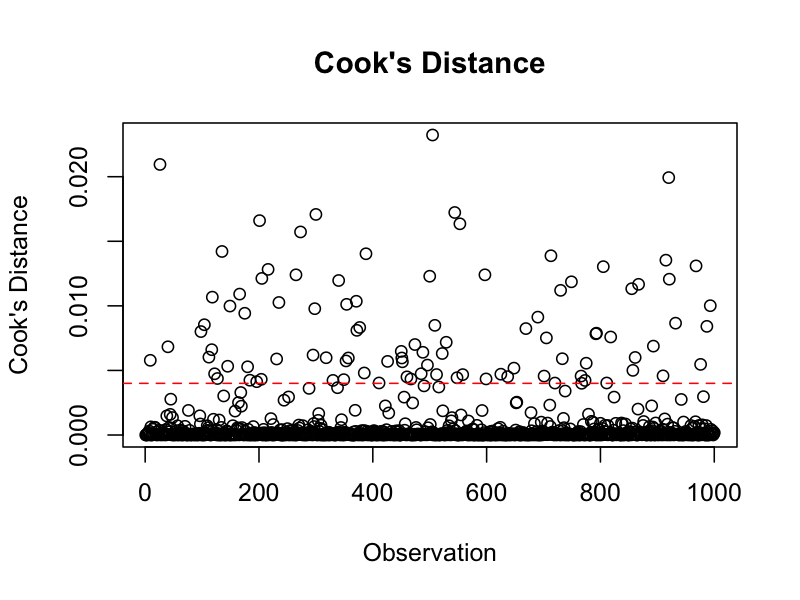
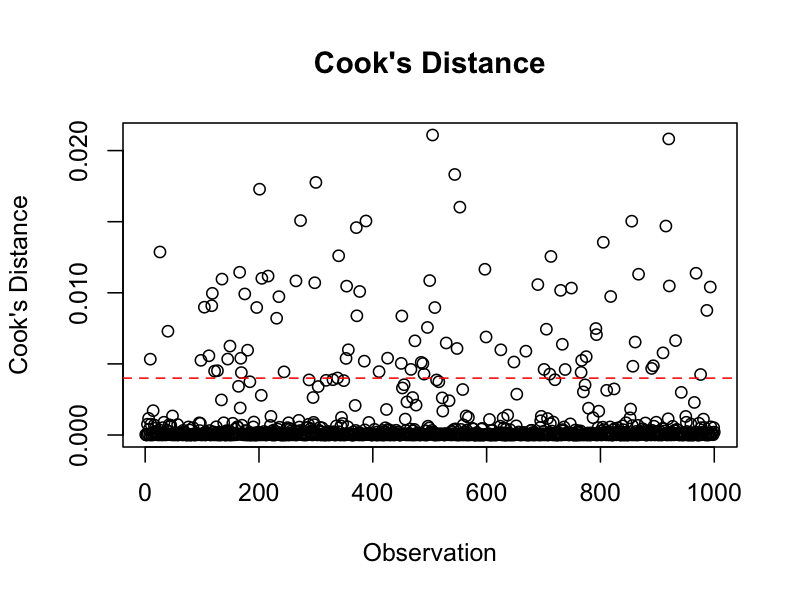
Update project

diff --git a/project/results.md b/project/results.md
@@ -9,7 +9,7 @@
 
 ### Statistical analyses
 
-Analiza statistică a fost realizată utilizând limbajul R (versiunea 4.5.2). Variabilele cantitative au fost testate pentru normalitate și, fiind non-normal distribuite, au fost prezentate ca mediană și interval intercuartilic (IQR). Variabilele categoriale au fost prezentate ca frecvențe absolute și relative (%). Comparațiile între grupuri au fost efectuate utilizând testul Mann-Whitney U (Wilcoxon rank-sum) pentru variabilele cantitative și testul Chi-pătrat pentru variabilele categoriale. Capacitatea discriminativă a variabilelor a fost evaluată prin analiza curbelor ROC (Receiver Operating Characteristic), cu determinarea AUC (Area Under the Curve) și a intervalelor de încredere de 95%. Punctul optim de clasificare (cut-off) a fost determinat prin metoda Youden. Regresiile logistice univariate au fost utilizate pentru estimarea odds ratio (OR) neajustat. Modelul de regresie logistică multivariată a fost construit cu variabila de interes LDL (dichotomizată la mediană) și ajustat pentru variabile selectate pe baza relevanței clinice, respectând limita de grade de libertate disponibile (min(110, 890)/10 ≈ 11). Condițiile de aplicare au fost verificate prin testul Hosmer-Lemeshow (goodness-of-fit), VIF (multicolinearitate), testul Box-Tidwell (liniaritate în logit) și distanța Cook (observații influente). Pragul de semnificație statistică a fost stabilit la p < 0.05.
+Analiza statistică a fost realizată utilizând limbajul R (versiunea 4.5.2). Variabilele cantitative au fost testate pentru normalitate și, fiind non-normal distribuite, au fost prezentate ca mediană și interval intercuartilic (IQR). Variabilele categoriale au fost prezentate ca frecvențe absolute și relative (%). Comparațiile între grupuri au fost efectuate utilizând testul Mann-Whitney U (Wilcoxon rank-sum) pentru variabilele cantitative și testul Chi-pătrat pentru variabilele categoriale. Capacitatea discriminativă a variabilelor a fost evaluată prin analiza curbelor ROC (Receiver Operating Characteristic), cu determinarea AUC (Area Under the Curve) și a intervalelor de încredere de 95%. Punctul optim de clasificare (cut-off) a fost determinat prin metoda Youden. Regresiile logistice univariate au fost utilizate pentru estimarea odds ratio (OR) neajustat. Modelul de regresie logistică multivariată a fost construit cu variabila de interes LDL (dichotomizată la mediană) și ajustat pentru variabile selectate pe baza relevanței clinice (vârstă, istoric familial de boală cardiacă, hipertensiune, diabet, obezitate, tensiune arterială sistolică, HDL, trigliceride), respectând limita de grade de libertate disponibile (min(110, 890)/10 ≈ 11). Condițiile de aplicare au fost verificate prin testul Hosmer-Lemeshow (goodness-of-fit), VIF (multicolinearitate), testul Box-Tidwell (liniaritate în logit) și distanța Cook (observații influente). Pragul de semnificație statistică a fost stabilit la p < 0.05.
 
 ---
 
@@ -22,7 +22,7 @@ IQR, interquartile range
 | Heart disease                     | With (n=110)          | Without (n=890)       | P      |
 |-----------------------------------|-----------------------|-----------------------|--------|
 | Age (years), median (IQR)         | 52.0 (37.0 - 75.8)    | 53.0 (39.0 - 74.0)    | 0.959  |
-| Smoking, n (%)                    | 52 (47.3%)            | 255 (28.7%)           | <0.001 |
+| Family History, n (%)             | 43 (39.1%)            | 204 (22.9%)           | <0.001 |
 | **Comorbidities, n (%)**          |                       |                       |        |
 | &emsp;hypertension                | 50 (45.5%)            | 337 (37.9%)           | 0.15   |
 | &emsp;diabetes                    | 24 (21.8%)            | 161 (18.1%)           | 0.412  |
@@ -31,7 +31,7 @@ IQR, interquartile range
 | &emsp;LDL cholesterol (mg/dL)     | 154.2 (134.2 - 171.3) | 127.6 (112.9 - 145.1) | <0.001 |
 | &emsp;Ferritin (ng/mL)            | 95.0 (70.0 - 138.2)   | 101.0 (71.0 - 142.8)  | 0.592  |
 
-**Interpretare:** Pacienții cu boală cardiacă au prezentat un nivel semnificativ mai ridicat de colesterol LDL comparativ cu cei fără boală cardiacă (mediană 154.2 vs. 127.6 mg/dL, p < 0.001). De asemenea, fumatul a fost semnificativ mai frecvent în grupul cu boală cardiacă (47.3% vs. 28.7%, p < 0.001). Nu s-au observat diferențe semnificative statistic pentru vârstă (p = 0.959), feritină (p = 0.592), hipertensiune (p = 0.15), diabet (p = 0.412) sau obezitate (p = 0.109).
+**Interpretare:** Pacienții cu boală cardiacă au prezentat un nivel semnificativ mai ridicat de colesterol LDL comparativ cu cei fără boală cardiacă (mediană 154.2 vs. 127.6 mg/dL, p < 0.001). De asemenea, istoricul familial de boală cardiacă a fost semnificativ mai frecvent în grupul cu boală cardiacă (39.1% vs. 22.9%, p < 0.001). Nu s-au observat diferențe semnificative statistic pentru vârstă (p = 0.959), feritină (p = 0.592), hipertensiune (p = 0.15), diabet (p = 0.412) sau obezitate (p = 0.109).
 
 ---
 
@@ -95,7 +95,7 @@ OR, odds ratio; CI, confidence interval
 | **Model 2 - PLR**                    |               |                 |        |
 | &emsp;LDL (as quantitative variable) | 1.035         | (1.027 - 1.043) | <0.001 |
 
-**Interpretare:** În analiza univariată, variabilele semnificativ asociate cu boala cardiacă au fost: fumatul (OR = 2.23, p < 0.001), colesterolul LDL (OR = 1.035 per mg/dL, p < 0.001), istoricul familial (OR = 2.16, p < 0.001), stresul crescut (OR = 1.67, p = 0.012), HDL (OR = 1.03, p < 0.001). LDL dichotomizat la mediană (≥ 129.2 mg/dL) a fost puternic asociat cu boala cardiacă (OR = 4.92, p < 0.001), indicând că pacienții cu LDL peste mediană au de aproape 5 ori mai mari șansele de a avea boală cardiacă. Feritina nu a fost asociată semnificativ cu boala cardiacă (OR = 1.000, p = 0.991).
+**Interpretare:** În analiza univariată, variabilele semnificativ asociate cu boala cardiacă au fost: istoricul familial de boală cardiacă (OR = 2.16, p < 0.001), colesterolul LDL (OR = 1.035 per mg/dL, p < 0.001), fumatul (OR = 2.23, p < 0.001), stresul crescut (OR = 1.67, p = 0.012), HDL (OR = 1.03, p < 0.001). LDL dichotomizat la mediană (≥ 129.2 mg/dL) a fost puternic asociat cu boala cardiacă (OR = 4.92, p < 0.001), indicând că pacienții cu LDL peste mediană au de aproape 5 ori mai mari șansele de a avea boală cardiacă. Feritina nu a fost asociată semnificativ cu boala cardiacă (OR = 1.000, p = 0.991).
 
 ---
 
@@ -107,7 +107,7 @@ Modelul de regresie logistică multivariată a fost construit respectând limita
 
 - **LDL >= median** (variabila de interes, dichotomială) - 1 g.d.l.
 - **age** (factor de risc major cardiovascular) - 1 g.d.l.
-- **smoking_status** (factor de risc comportamental) - 1 g.d.l.
+- **family_history** (istoric familial de boală cardiacă) - 1 g.d.l.
 - **hypertension** (comorbiditate majoră CV) - 1 g.d.l.
 - **diabetes** (comorbiditate metabolică) - 1 g.d.l.
 - **obesity** (factor de risc metabolic) - 1 g.d.l.
@@ -116,34 +116,34 @@ Modelul de regresie logistică multivariată a fost construit respectând limita
 - **triglycerides** (marker metabolic) - 1 g.d.l.
 - **Total: 9 g.d.l. (< 11 permise)**
 
-| Variable      | OR adjusted | 95% CI           | p      |
-|---------------|-------------|------------------|--------|
-| LDL >= median | 5.880       | (3.586 - 10.072) | <0.001 |
-| age           | 1.002       | (0.995 - 1.008)  | 0.614  |
-| smoking       | 2.677       | (1.733 - 4.144)  | <0.001 |
-| hypertension  | 1.321       | (0.859 - 2.023)  | 0.202  |
-| diabetes      | 1.352       | (0.790 - 2.249)  | 0.257  |
-| obesity       | 1.389       | (0.882 - 2.162)  | 0.150  |
-| systolic_bp   | 1.004       | (0.994 - 1.013)  | 0.447  |
-| hdl           | 1.029       | (1.012 - 1.046)  | <0.001 |
-| triglycerides | 0.997       | (0.992 - 1.002)  | 0.221  |
+| Variable       | OR adjusted | 95% CI           | p      |
+|----------------|-------------|------------------|--------|
+| LDL >= median  | 5.725       | (3.497 - 9.791)  | <0.001 |
+| age            | 1.003       | (0.996 - 1.009)  | 0.364  |
+| family_history | 2.295       | (1.469 - 3.565)  | <0.001 |
+| hypertension   | 1.321       | (0.861 - 2.020)  | 0.200  |
+| diabetes       | 1.468       | (0.860 - 2.435)  | 0.147  |
+| obesity        | 1.409       | (0.896 - 2.191)  | 0.132  |
+| systolic_bp    | 1.004       | (0.994 - 1.013)  | 0.462  |
+| hdl            | 1.024       | (1.008 - 1.041)  | 0.004  |
+| triglycerides  | 0.997       | (0.992 - 1.001)  | 0.162  |
 
 **Verificarea condițiilor de aplicare:**
 
-1. **Hosmer-Lemeshow test:** Chi-squared = 3.36, df = 8, p = 0.910. Modelul se potrivește bine pe date (p > 0.05).
-2. **Multicolinearitate (VIF):** Toate valorile VIF < 2 (max = 1.64 pentru HDL). Nu există multicolinearitate.
+1. **Hosmer-Lemeshow test:** Chi-squared = 8.89, df = 8, p = 0.352. Modelul se potrivește bine pe date (p > 0.05).
+2. **Multicolinearitate (VIF):** Toate valorile VIF < 2 (max = 1.65 pentru HDL). Nu există multicolinearitate.
 3. **Liniaritate în logit (Box-Tidwell):** Toate variabilele continue respectă condiția de liniaritate (p > 0.05), cu excepția trigliceridelor care prezintă o ușoară non-liniaritate marginală (p = 0.04).
-4. **Observații influente (Cook's Distance):** 99 observații cu Cook's D > 4/n, dar niciuna cu valori extreme care ar necesita excludere.
-5. **Capacitatea discriminativă:** AUC = 0.775 (95% CI: 0.731 - 0.819) - discriminare acceptabilă.
-6. **Pseudo R² Nagelkerke:** 0.199
+4. **Observații influente (Cook's Distance):** 92 observații cu Cook's D > 4/n, dar niciuna cu valori extreme care ar necesita excludere.
+5. **Capacitatea discriminativă:** AUC = 0.764 (95% CI: 0.719 - 0.810) - discriminare acceptabilă.
+6. **Pseudo R² Nagelkerke:** 0.188
 
-**Interpretare Table 4:** În modelul multivariat, LDL ≥ mediană rămâne cel mai puternic predictor independent al bolii cardiace (OR ajustat = 5.88, 95% CI: 3.59 - 10.07, p < 0.001), ceea ce înseamnă că pacienții cu LDL peste mediană au de aproape 6 ori mai mari șansele de a prezenta boală cardiacă, independent de ceilalți factori din model. Fumatul este al doilea predictor semnificativ (OR = 2.68, p < 0.001), iar HDL colesterol este de asemenea semnificativ asociat (OR = 1.03 per mg/dL, p < 0.001). Celelalte variabile (vârsta, hipertensiunea, diabetul, obezitatea, tensiunea sistolică, trigliceridele) nu au atins pragul de semnificație statistică în modelul multivariat.
+**Interpretare Table 4:** În modelul multivariat, LDL ≥ mediană rămâne cel mai puternic predictor independent al bolii cardiace (OR ajustat = 5.73, 95% CI: 3.50 - 9.79, p < 0.001), ceea ce înseamnă că pacienții cu LDL peste mediană au de aproape 6 ori mai mari șansele de a prezenta boală cardiacă, independent de ceilalți factori din model. Istoricul familial de boală cardiacă este al doilea predictor semnificativ (OR = 2.30, 95% CI: 1.47 - 3.57, p < 0.001), iar HDL colesterol este de asemenea semnificativ asociat (OR = 1.02 per mg/dL, p = 0.004). Celelalte variabile (vârsta, hipertensiunea, diabetul, obezitatea, tensiunea sistolică, trigliceridele) nu au atins pragul de semnificație statistică în modelul multivariat.
 
 ---
 
 ## Concluzie
 
-Colesterolul LDL reprezintă un predictor semnificativ și puternic al bolii cardiace, atât în analiza univariată (OR = 4.92 pentru LDL ≥ mediană), cât și în modelul multivariat ajustat (OR = 5.88). Capacitatea sa discriminativă, evaluată prin curba ROC, este acceptabilă (AUC = 0.737), cu un cut-off optim de 138.9 mg/dL. În contrast, feritina nu prezintă nicio asociere semnificativă cu boala cardiacă (AUC = 0.516, OR = 1.00, p = 0.991), demonstrând lipsa capacității discriminative. Modelul multivariat, care include LDL dichotomizat, fumatul și HDL ca predictori semnificativi, prezintă o capacitate discriminativă acceptabilă (AUC = 0.775) și se potrivește bine pe date (Hosmer-Lemeshow p = 0.91), cu absența multicolinearității (VIF < 2) și liniaritate în logit confirmată pentru variabilele continue.
+Colesterolul LDL reprezintă un predictor semnificativ și puternic al bolii cardiace, atât în analiza univariată (OR = 4.92 pentru LDL ≥ mediană), cât și în modelul multivariat ajustat (OR = 5.73). Capacitatea sa discriminativă, evaluată prin curba ROC, este acceptabilă (AUC = 0.737), cu un cut-off optim de 138.9 mg/dL. În contrast, feritina nu prezintă nicio asociere semnificativă cu boala cardiacă (AUC = 0.516, OR = 1.00, p = 0.991), demonstrând lipsa capacității discriminative. Modelul multivariat, care include LDL dichotomizat, istoricul familial de boală cardiacă și HDL ca predictori semnificativi, prezintă o capacitate discriminativă acceptabilă (AUC = 0.764) și se potrivește bine pe date (Hosmer-Lemeshow p = 0.352), cu absența multicolinearității (VIF < 2) și liniaritate în logit confirmată pentru variabilele continue.
 
 ---
 
@@ -208,8 +208,8 @@ n_pct <- function(x, level = "1") {
 # Age
 wilcox.test(age ~ heart_disease, data = data)
 
-# Smoking
-chisq.test(table(data$heart_disease, data$smoking_status))
+# Family History
+chisq.test(table(data$heart_disease, data$family_history))
 
 # Comorbidities
 chisq.test(table(data$heart_disease, data$hypertension))
@@ -285,7 +285,7 @@ tidy(model2, conf.int = TRUE, exponentiate = TRUE)
 # TABLE 4: Multivariate Logistic Regression
 # =============================================================================
 
-multi_model <- glm(heart_disease ~ ldl_high + age + smoking_status +
+multi_model <- glm(heart_disease ~ ldl_high + age + family_history +
                      hypertension + diabetes + obesity +
                      systolic_bp + hdl + triglycerides,
                    data = data, family = binomial)
@@ -303,7 +303,7 @@ data$systolic_bp_log <- data$systolic_bp * log(data$systolic_bp)
 data$hdl_log <- data$hdl * log(data$hdl)
 data$triglycerides_log <- data$triglycerides * log(data$triglycerides)
 
-bt_model <- glm(heart_disease ~ ldl_high + age + smoking_status +
+bt_model <- glm(heart_disease ~ ldl_high + age + family_history +
                   hypertension + diabetes + obesity +
                   systolic_bp + hdl + triglycerides +
                   age_log + systolic_bp_log + hdl_log + triglycerides_log,
@@ -330,7 +330,7 @@ Fără boală cardiacă: n = 890
 
 TABLE 1:
 Age: With=52.0 (37.0 - 75.8), Without=53.0 (39.0 - 74.0), p=0.959
-Smoking: With=52 (47.3%), Without=255 (28.7%), p=0.000102
+Family History: With=43 (39.1%), Without=204 (22.9%), p=0.000327
 Hypertension: With=50 (45.5%), Without=337 (37.9%), p=0.15
 Diabetes: With=24 (21.8%), Without=161 (18.1%), p=0.412
 Obesity: With=39 (35.5%), Without=246 (27.6%), p=0.109
@@ -368,29 +368,29 @@ Model 2 - PLR (LDL cantitativ): OR=1.035 (1.027-1.043), p=<2e-16
 
 TABLE 4 (Multivariate):
 Call:
-glm(formula = heart_disease ~ ldl_high + age + smoking_status +
+glm(formula = heart_disease ~ ldl_high + age + family_history +
     hypertension + diabetes + obesity + systolic_bp + hdl + triglycerides,
     family = binomial, data = data)
 
 Coefficients:
                  Estimate Std. Error z value Pr(>|z|)
-(Intercept)     -5.238685   0.984158  -5.323 1.02e-07 ***
-ldl_high1        1.771505   0.262317   6.753 1.45e-11 ***
-age              0.001603   0.003178   0.504 0.613983
-smoking_status1  0.984841   0.221967   4.437 9.13e-06 ***
-hypertension1    0.278193   0.217947   1.276 0.201805
-diabetes1        0.301511   0.265997   1.134 0.257000
-obesity1         0.328441   0.228068   1.440 0.149839
-systolic_bp      0.003719   0.004892   0.760 0.447158
-hdl              0.028601   0.008423   3.396 0.000685 ***
-triglycerides   -0.002875   0.002348  -1.224 0.220823
+(Intercept)     -4.942039   0.974185  -5.073 3.92e-07 ***
+ldl_high1        1.744782   0.261513   6.672 2.53e-11 ***
+age              0.002870   0.003165   0.907 0.364430
+family_history1  0.830924   0.225588   3.683 0.000230 ***
+hypertension1    0.278261   0.217066   1.282 0.199870
+diabetes1        0.383765   0.264357   1.452 0.146590
+obesity1         0.342875   0.227634   1.506 0.132000
+systolic_bp      0.003628   0.004937   0.735 0.462430
+hdl              0.024119   0.008287   2.910 0.003610 **
+triglycerides   -0.003292   0.002352  -1.400 0.161580
 
 Null deviance: 693.03  on 999  degrees of freedom
-Residual deviance: 588.05  on 990  degrees of freedom
-AIC: 608.05
+Residual deviance: 594.44  on 990  degrees of freedom
+AIC: 614.44
 
-Hosmer-Lemeshow: X-squared = 3.3601, df = 8, p-value = 0.9098
-VIF: all < 2 (max = 1.64)
-AUC model: 0.775 (0.731 - 0.819)
-Nagelkerke R²: 0.199
+Hosmer-Lemeshow: X-squared = 8.8922, df = 8, p-value = 0.3515
+VIF: all < 2 (max = 1.65)
+AUC model: 0.764 (0.719 - 0.810)
+Nagelkerke R²: 0.188
 ```
